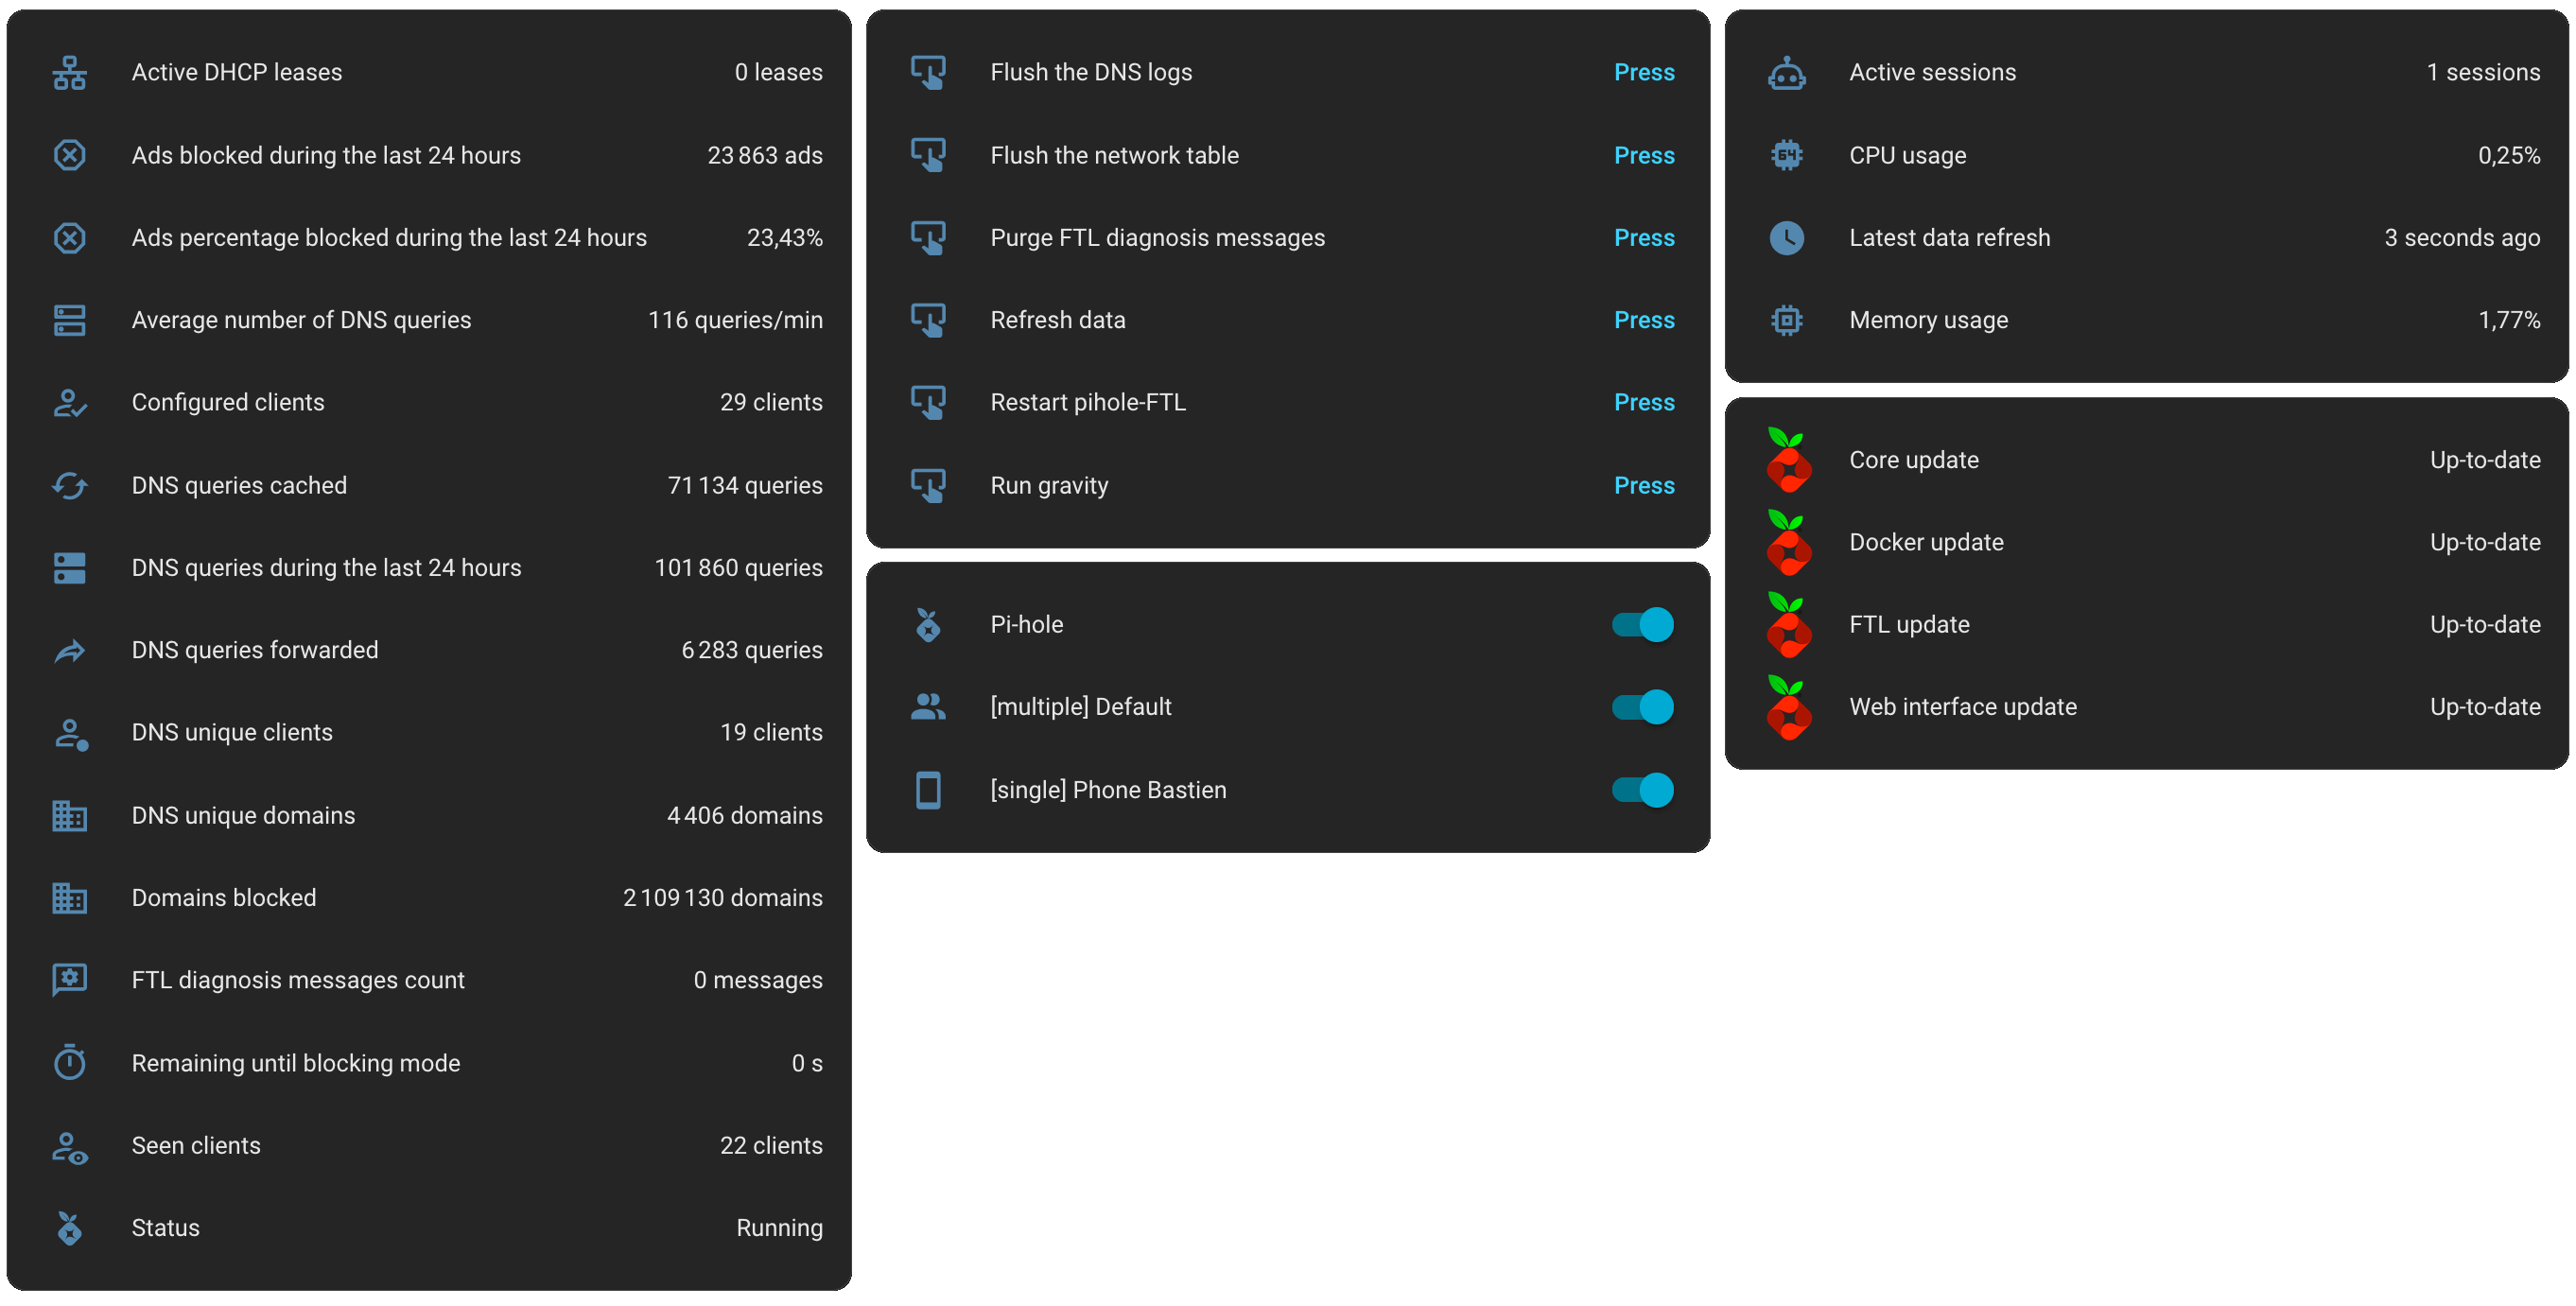
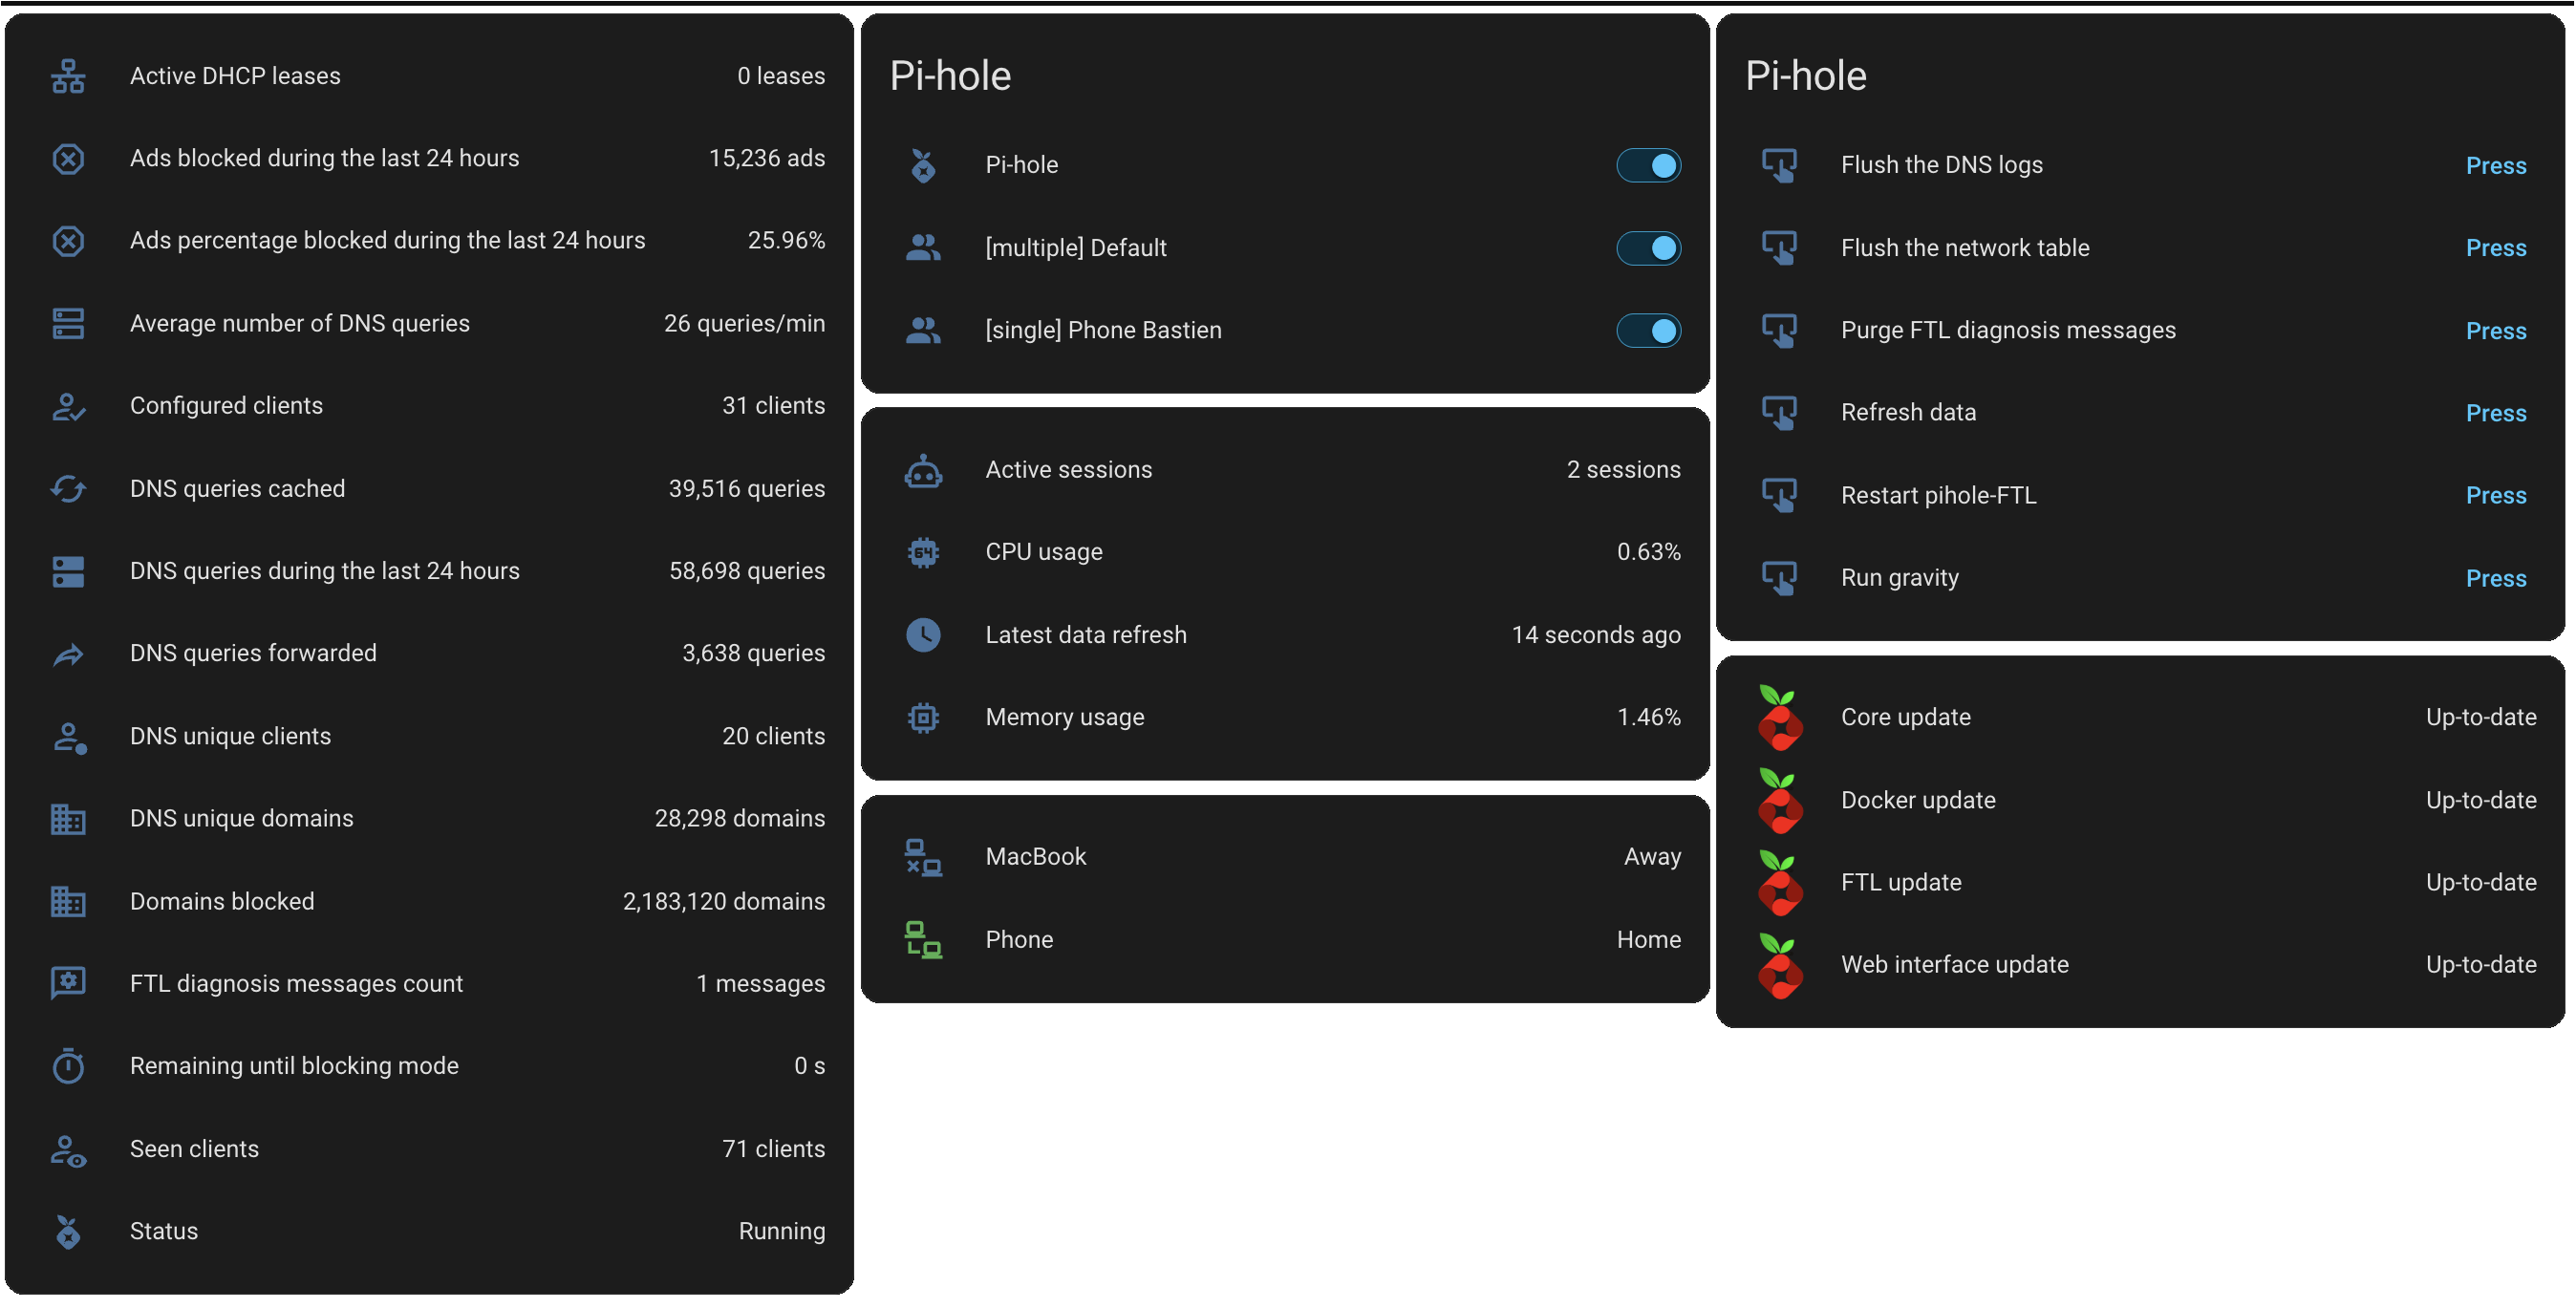
docs: add network device tracking guide and entity docs

diff --git a/docs/guide-network-device-tracking.md b/docs/guide-network-device-tracking.md
@@ -1,0 +1,32 @@
+## Network device tracking
+
+The integration can create a `device_tracker` entity for each network device known to your Pi-hole instance, reporting `home` when the device made a DNS query recently and `not_home` otherwise.
+
+### Enabling network device tracking
+
+Network device tracking is **disabled by default** to avoid creating unexpected entities on upgrade.
+
+On the Pi-hole V6 Integration page (_/config/integrations/integration/pi_hole_v6_), configure your service and check `Enable network device tracking`.
+
+> [!NOTE]
+> After enabling or disabling this option, it is necessary to reload the service or restart Home Assistant.
+
+### Filtering tracked devices
+
+Tracked devices can be restricted with a whitelist or a blacklist:
+
+- `Use address list as a whitelist`: when checked, only the listed addresses are tracked. When unchecked, the listed addresses are excluded and all others are tracked.
+- `Filtered addresses`: one MAC address, Pi-hole pseudo-MAC (e.g. `IP-192.168.1.10`, generated by Pi-hole when it cannot determine a device's real MAC address), or IP address per line, or separated by commas.
+
+Leaving the address list empty disables filtering entirely, regardless of the whitelist/blacklist setting.
+
+> [!NOTE]
+> IP addresses match a device's current IP. If a device's IP changes later (for example after a DHCP lease renewal), the filter may stop matching it until the list is updated.
+
+### Removing a device manually
+
+A network device can be removed at any time from the Home Assistant UI (device page > `Delete`), even while Pi-hole still reports it. If Pi-hole reports the same device again on a later refresh, it is recreated automatically.
+
+### Devices Pi-hole stops reporting
+
+If Pi-hole simply stops reporting a device (it is not excluded by a filter), its entity is kept and naturally reports as `not_home`. It is not removed automatically.

diff --git a/docs/guide-explained-entities.md b/docs/guide-explained-entities.md
@@ -309,6 +309,35 @@ The attributes `until_date` and `remaining_seconds` are existing only if the ads
 
 </details>
 
+### Device Trackers
+
+<img src="../img/entities-device-trackers.png" width="300">
+
+<details>
+  <summary>Display the device trackers</summary>
+
+<br>Network device tracking is **disabled by default**. It can be enabled from the integration options. See the [network device tracking guide](guide-network-device-tracking.md) for details.
+
+#### - Network device
+
+**Name:** device_tracker.<service\_name>\_<mac_address\>  
+**Description:** Presence of a network device known to Pi-hole. Reports `home` if the device made a DNS query recently, `not_home` otherwise.  
+**Attributes:**  Information about the network device.
+
+```json
+{
+  "ip": "192.168.31.172",
+  "mac": "ip-192.168.31.172",
+  "host_name": "macbook-air-bastien-m3.local",
+  "interface": "eth0",
+  "num_queries": 3027453,
+  "first_seen": "2025-02-18T23:19:00+00:00",
+  "last_query": "2026-07-05T14:17:27+00:00"
+}
+```
+
+</details>
+
 ### Diagnostic Sensors
 
 <img src="../img/entities-diagnostic-sensors.png" width="300">

diff --git a/README.md b/README.md
@@ -128,6 +128,10 @@ A quick example to integrate controls in a dashboard is available on this [page]
 
 A useful tip to exclude unnecessary sensors from the Recorder is available on this [page](docs/guide-database-optimization.md).
 
+### How do I track network devices?
+
+Network device tracking, filtering, and manual removal are explained on this [page](docs/guide-network-device-tracking.md).
+
 ### Advantages of using the integration compared to the Core one?
 
 I listed the implemented features in the **HA Pi-hole V6 Integration** and the **Core Integration**.
@@ -150,6 +154,7 @@ I listed the implemented features in the **HA Pi-hole V6 Integration** and the *
 |              |[Refresh data](https://github.com/bastgau/ha-pi-hole-v6/blob/develop/docs/guide-explained-entities.md#--refresh-data)                                              |                ✅                 |       ❌       |
 |              |[Restart pihole-FTL](https://github.com/bastgau/ha-pi-hole-v6/blob/develop/docs/guide-explained-entities.md#--restart-pihole-ftl)                                        |                ✅                 |       ❌       |
 |              |[Run gravity](https://github.com/bastgau/ha-pi-hole-v6/blob/develop/docs/guide-explained-entities.md#--run-gravity)                                               |                ✅                 |       ❌       |
+| Device Tracker|[Network device](https://github.com/bastgau/ha-pi-hole-v6/blob/develop/docs/guide-explained-entities.md#--network-device) (disabled by default, filterable)                             |                ✅ + ℹ️                |       ❌       |
 | Sensor       |[Active DHCP leases](https://github.com/bastgau/ha-pi-hole-v6/blob/develop/docs/guide-explained-entities.md#--active-dhcp-leases)                                        |              ✅ + ℹ️              |       ❌       |
 |              |[Active sessions](https://github.com/bastgau/ha-pi-hole-v6/blob/develop/docs/guide-explained-entities.md#--active-sessions)                                           |             ✅ + ℹ️               |       ❌       |
 |              |[Ads blocked during the last 24 hours](https://github.com/bastgau/ha-pi-hole-v6/blob/develop/docs/guide-explained-entities.md#--ads-blocked-during-the-last-24-hours)                      |                ✅                 |       ✅       |